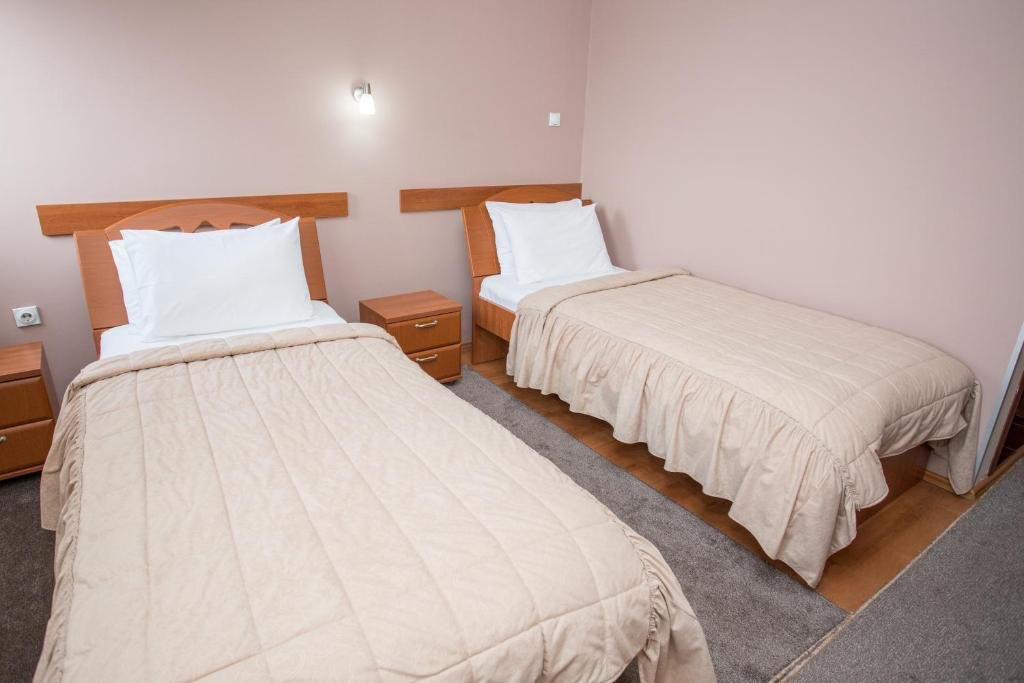
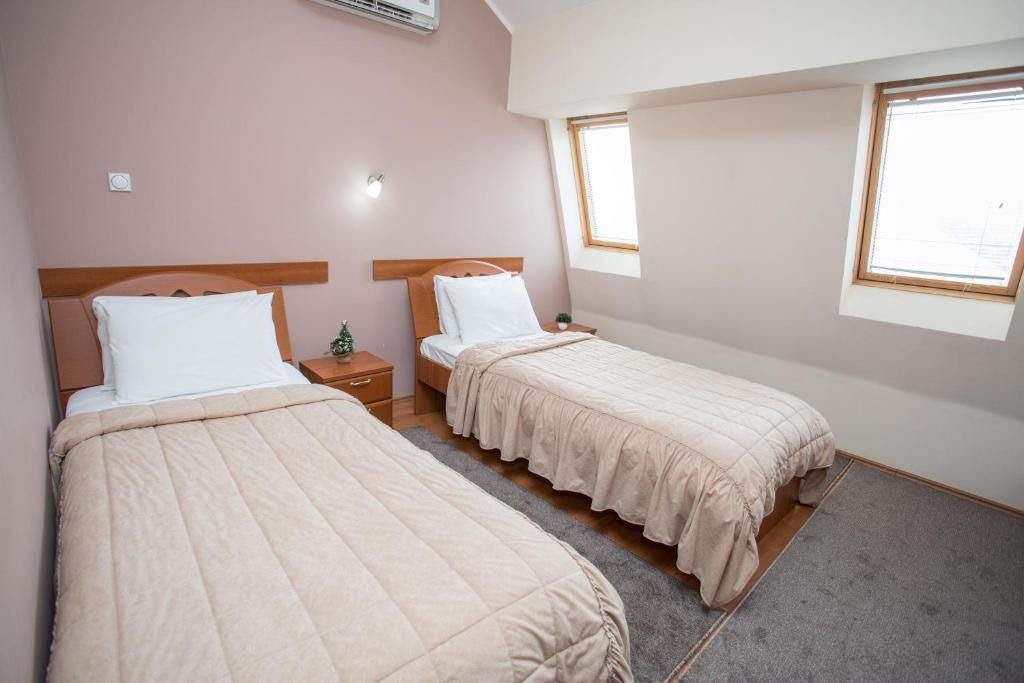
mods

diff --git a/app/(moduls)/reservation/page.tsx b/app/(moduls)/reservation/page.tsx
@@ -6,6 +6,8 @@ import "react-datepicker/dist/react-datepicker.css";
 import { useLanguage } from "@/app/_shared/Localization/LanguageContext";
 import RemoveCircleOutlineIcon from "@mui/icons-material/Delete";
 import AddCircleOutlineIcon from "@mui/icons-material/Add";
+import KeyboardArrowDownIcon from "@mui/icons-material/KeyboardArrowDown";
+import CalendarMonthIcon from "@mui/icons-material/CalendarMonth";
 import "../../style.css";
 import { useHotelData } from "@/app/_shared/Localization/useHotelData";
 import { sendReservationEmail } from "./actions";
@@ -175,6 +177,22 @@ export default function Reservation() {
           <div className="w-24 h-1 bg-[#fcd949]"></div>
         </div>
 
+        {/* Benefits and Phone Booking Section */}
+        <div className="flex flex-col items-center text-center w-full mb-12 gap-2">
+          <h2 className="text-2xl md:text-3xl font-bold text-[#fcd949] uppercase tracking-widest mb-2">
+            {t.bookingBenefits}
+          </h2>
+          <p className="text-white/80 text-base md:text-lg">{t.bookingBenefit1}</p>
+          <p className="text-white/80 text-base md:text-lg">{t.bookingBenefit2}</p>
+          
+          <h2 className="text-2xl md:text-3xl font-bold text-[#fcd949] uppercase tracking-widest mt-8 mb-2">
+            {t.phoneBooking}
+          </h2>
+          <a href="tel:[phone redacted]" className="text-white text-2xl md:text-3xl font-bold hover:text-[#fcd949] transition-colors duration-300">
+            [phone redacted]
+          </a>
+        </div>
+
         <form className="w-full flex flex-col gap-8" onSubmit={handleSubmit}>
           {/* Dynamic Rooms Selection */}
           <div className="flex flex-col gap-6">
@@ -211,58 +229,68 @@ export default function Reservation() {
                     <label className="text-white/80 text-sm font-semibold uppercase tracking-wider">
                       {t.roomType}
                     </label>
-                    <select
-                      value={room.roomId}
-                      onChange={(e) =>
-                        handleRoomChange(room.id, "roomId", e.target.value)
-                      }
-                      className="p-3 border rounded-lg bg-zinc-800 border-white/20 text-white focus:border-[#fcd949] focus:ring-1 focus:ring-[#fcd949] transition-colors duration-200 outline-none appearance-none"
-                    >
-                      {hotelRooms.map((r) => (
-                        <option key={r.id} value={r.id} className="bg-zinc-900 text-white">
-                          {r.name}
-                        </option>
-                      ))}
-                    </select>
+                    <div className="relative">
+                      <select
+                        value={room.roomId}
+                        onChange={(e) =>
+                          handleRoomChange(room.id, "roomId", e.target.value)
+                        }
+                        className="w-full p-3 pr-10 border rounded-lg bg-zinc-800 border-white/20 text-white focus:border-[#fcd949] focus:ring-1 focus:ring-[#fcd949] transition-colors duration-200 outline-none appearance-none cursor-pointer"
+                      >
+                        {hotelRooms.map((r) => (
+                          <option key={r.id} value={r.id} className="bg-zinc-900 text-white">
+                            {r.name}
+                          </option>
+                        ))}
+                      </select>
+                      <KeyboardArrowDownIcon className="absolute right-3 top-1/2 -translate-y-1/2 text-white/50 pointer-events-none" />
+                    </div>
                   </div>
 
                   <div className="flex flex-col gap-2">
                     <label className="text-white/80 text-sm font-semibold uppercase tracking-wider">
                       {t.numberOfPersons}
                     </label>
-                    <select
-                      value={room.persons}
-                      onChange={(e) =>
-                        handleRoomChange(room.id, "persons", e.target.value)
-                      }
-                      className="p-3 border rounded-lg bg-zinc-800 border-white/20 text-white focus:border-[#fcd949] focus:ring-1 focus:ring-[#fcd949] transition-colors duration-200 outline-none appearance-none"
-                    >
-                      <option value="1" className="bg-zinc-900 text-white">
-                        {t.onePerson}
-                      </option>
-                      <option value="2" className="bg-zinc-900 text-white">
-                        {t.twoPersons}
-                      </option>
-                    </select>
+                    <div className="relative">
+                      <select
+                        value={room.persons}
+                        onChange={(e) =>
+                          handleRoomChange(room.id, "persons", e.target.value)
+                        }
+                        className="w-full p-3 pr-10 border rounded-lg bg-zinc-800 border-white/20 text-white focus:border-[#fcd949] focus:ring-1 focus:ring-[#fcd949] transition-colors duration-200 outline-none appearance-none cursor-pointer"
+                      >
+                        <option value="1" className="bg-zinc-900 text-white">
+                          {t.onePerson}
+                        </option>
+                        <option value="2" className="bg-zinc-900 text-white">
+                          {t.twoPersons}
+                        </option>
+                      </select>
+                      <KeyboardArrowDownIcon className="absolute right-3 top-1/2 -translate-y-1/2 text-white/50 pointer-events-none" />
+                    </div>
                   </div>
 
                   <div className="flex flex-col gap-2">
                     <label className="text-white/80 text-sm font-semibold uppercase tracking-wider">
                       {t.selectPeriod}
                     </label>
-                    <DatePicker
-                      locale={language} // Postavlja jezik kalendara (npr. 'latn-rs')
-                      dateFormat="dd-MMMM-yyyy" // Format: 13-januar-2025
-                      selectsRange={true}
-                      startDate={room.dateRange[0] || undefined}
-                      endDate={room.dateRange[1] || undefined}
-                      onChange={(update) =>
-                        handleRoomChange(room.id, "dateRange", update)
-                      }
-                      isClearable={true}
-                      placeholderText={t.selectPeriodPlaceholder || "Od - Do"}
-                      className="w-full p-3 border rounded-lg bg-zinc-800 border-white/20 text-white placeholder-white/50 focus:border-[#fcd949] focus:ring-1 focus:ring-[#fcd949] transition-colors duration-200 outline-none"
-                    />
+                    <div className="relative">
+                      <CalendarMonthIcon className="absolute left-3 top-1/2 -translate-y-1/2 text-[#fcd949] text-xl z-10 pointer-events-none" />
+                      <DatePicker
+                        locale={language} // Postavlja jezik kalendara (npr. 'latn-rs')
+                        dateFormat="dd-MMMM-yyyy" // Format: 13-januar-2025
+                        selectsRange={true}
+                        startDate={room.dateRange[0] || undefined}
+                        endDate={room.dateRange[1] || undefined}
+                        onChange={(update) =>
+                          handleRoomChange(room.id, "dateRange", update)
+                        }
+                        isClearable={true}
+                        placeholderText={t.selectPeriodPlaceholder || "Od - Do"}
+                        className="w-full p-3 pl-11 border rounded-lg bg-zinc-800 border-white/20 text-white placeholder-white/50 focus:border-[#fcd949] focus:ring-1 focus:ring-[#fcd949] transition-colors duration-200 outline-none"
+                        wrapperClassName="w-full"
+                      />
+                    </div>
                   </div>
                 </div>
 

diff --git a/app/_shared/Localization/tranlsations.ts b/app/_shared/Localization/tranlsations.ts
@@ -95,6 +95,9 @@ export const translations = {
     perHour: "per hour",
     hotelGuests: "Hotel Guests",
     contactButton: "Contact Us",
+    restaurant: "Restaurant",
+    restaurantBreakfastInfo: "Guests staying at Hotel Sin-Kom can enjoy a highly-rated breakfast during their stay. Breakfast options include:",
+    restaurantBreakfastOption: "À la carte (ordering from the menu)",
     contactPageSubtitle: "Have a question or want to book a stay? Feel free to reach out to us.",
     messageLabel: "Message",
     messagePlaceholder: "How can we help you?",
@@ -166,6 +169,10 @@ export const translations = {
       "Zvonačka Banja is a well-known spa town near Pirot, famous for the therapeutic properties of its springs and the beautiful natural surroundings.",      
     selectPeriodPlaceholder: "Select your stay period",
       pricingList: "Pricing List",
+      bookingBenefits: "Benefits of direct booking",
+      bookingBenefit1: "- 10% discount for individual bookings",
+      bookingBenefit2: "- Early Check-In and/or Late Check-Out",
+      phoneBooking: "Phone Booking",
   
     },
   "latn-rs": {
@@ -262,6 +269,9 @@ export const translations = {
     perHour: "po satu",
     hotelGuests: "Gosti hotela",
     contactButton: "Kontaktirajte nas",
+    restaurant: "Restoran",
+    restaurantBreakfastInfo: "Gosti koji odsedaju u objektu Hotel Sin-Kom mogu da uživaju u visoko ocenjenom doručku tokom svog boravka. Opcije za doručak uključuju:",
+    restaurantBreakfastOption: "À la carte (naručivanje iz jelovnika)",
     contactPageSubtitle: "Imate pitanje ili želite da rezervišete smeštaj? Slobodno nas kontaktirajte.",
     messageLabel: "Poruka",
     messagePlaceholder: "Kako vam možemo pomoći?",
@@ -330,6 +340,10 @@ export const translations = {
     zvonackaBanjaDesc: "Zvončka Banja je poznato banjsko mesto u blizini Pirota, poznato po lekovitim svojstvima svojih izvora i prelepoj prirodi koja ga okružuje.",
     selectPeriodPlaceholder: "Izaberite period boravka",
     pricingList: "Cenovnik",
+    bookingBenefits: "Prednosti direktne rezervacije",
+    bookingBenefit1: "- Popust od 10% za individualne rezervacije",
+    bookingBenefit2: "- Rani Check-In i/ili kasniji Check-Out",
+    phoneBooking: "Rezervacija telefonom",
 
   },
   "bg-bg": {
@@ -426,6 +440,9 @@ export const translations = {
     perHour: "на час",
     hotelGuests: "Гости на хотела",
     contactButton: "Свържете се с нас",
+    restaurant: "Ресторант",
+    restaurantBreakfastInfo: "Гостите, отсядащи в Хотел Син-Ком, могат да се насладят на високо оценена закуска по време на престоя си. Вариантите за закуска включват:",
+    restaurantBreakfastOption: "À la carte (поръчка от меню)",
     contactPageSubtitle: "Имате въпрос или искате да резервирате престой? Чувствайте се свободни да се свържете с нас.",
     messageLabel: "Съобщение",
     messagePlaceholder: "Как можем да ви помогнем?",
@@ -494,6 +511,10 @@ export const translations = {
     zvonackaBanjaDesc: "Звонска баня е известен спа курорт в близост до Пирот, известен със своите лечебни свойства на минералните извори и красивата природа, която го заобикаля.",
     selectPeriodPlaceholder: "Изберете период на престой",  
     pricingList: "ценова листа",
+    bookingBenefits: "Преимущества прямого бронирования",
+    bookingBenefit1: "- 10% скидка за индивидуални бронирования",
+    bookingBenefit2: "- Ранен заезд и/или късен изход",
+    phoneBooking: "Брониране по телефон",
   },
 };
 

diff --git a/app/(moduls)/services/page.tsx b/app/(moduls)/services/page.tsx
@@ -93,6 +93,23 @@ export default function Serices() {
               prices={room.prices}
             />
           ))}
+
+          <div className="w-full mb-16 p-8 md:p-12 bg-white rounded-[2rem] shadow-xl border border-black/5 flex flex-col items-center gap-8 transition-all hover:shadow-2xl">
+            <h2 className="services-heading text-6xl md:text-7xl text-[#464545] text-center">
+              {t.restaurant}
+            </h2>
+            <div className="text-black/70 text-lg leading-relaxed max-w-4xl text-center mx-auto">
+              <p>{t.restaurantBreakfastInfo}</p>
+              <p className="mt-2 font-medium">- {t.restaurantBreakfastOption}</p>
+            </div>
+            <div className="relative w-full mt-4 overflow-hidden h-[200px] rounded-2xl">
+              <img 
+                src="/images/restoran-menu.jpg" 
+                alt="Hotel Sin-Kom Restoran" 
+                className="w-full h-full object-cover"
+              />
+            </div>
+          </div>
         </div>
       </main>
       <div className="bg-[#e0d9cd] w-full px-4 lg:px-[100px] pb-10">

diff --git a/app/(moduls)/surroundings/page.tsx b/app/(moduls)/surroundings/page.tsx
@@ -57,7 +57,7 @@ export default function Surroundings() {
       gallery: [
         { src: "/images/Sin-kom/zanimljivosti-u-gradu/tvrdjava-pirot.jpg", name: t.kaleName || "Tvrđava Kale", description: t.kaleDesc || "Srednjovekovni grad, ponos pirotske istorije." },
         { src: "/images/Sin-kom/zanimljivosti-u-gradu/muzej-pirot.JPG", name: t.muzejName || "Muzej Ponišavlja", description: t.muzejDesc || "Autentična arhitektura i bogata riznica." },
-        { src: "/images/Sin-kom/zanimljivosti-u-gradu/pirotski-kej-zalazak.jpg", name: t.kejName || "Pirotski Kej", description: t.kejDesc || "Najlepše šetalište pored reke Nišave." },
+        { src: "/images/Sin-kom/zanimljivosti-u-gradu/pirotski-kej.jpeg", name: t.kejName || "Pirotski Kej", description: t.kejDesc || "Najlepše šetalište pored reke Nišave." },
       ]
     },
     {
@@ -66,7 +66,7 @@ export default function Surroundings() {
       image: "/images/Sin-kom/jerma/kanjon-jerme.jpg",
       gallery: [
         { src: "/images/Sin-kom/jerma/manastir-poganovo.jpg", name: t.poganovoName || "Manastir Poganovo", description: t.poganovoDesc || "" },
-        { src: "/images/Sin-kom/jerma/manastir-sukovo.JPG", name: t.sukovoName || "Manastir Sukovo", description: t.sukovoDesc || "" },
+        { src: "/images/Sin-kom/jerma/manastir-sukovo.jpg", name: t.sukovoName || "Manastir Sukovo", description: t.sukovoDesc || "" },
         { src: "/images/Sin-kom/jerma/banja-zvonce.jpg", name: t.zvonackaBanjaName || "Zvonačka banja", description: t.zvonackaBanjaDesc || "" },
       ]
     }
@@ -76,6 +76,7 @@ export default function Surroundings() {
 
   const handleBack = () => {
     setSelectedLocation(null);
+    window.scrollTo({ top: 0, behavior: "smooth" });
   };
 
   return (
@@ -110,7 +111,10 @@ export default function Surroundings() {
             <div className="grid grid-cols-1 md:grid-cols-2 gap-8 w-full animate-fade-in-up">
               {locations.map((loc, index) => (
                 <button
-                  onClick={() => setSelectedLocation(index)}
+                  onClick={() => {
+                    setSelectedLocation(index);
+                    window.scrollTo({ top: 0, behavior: "smooth" });
+                  }}
                   key={index}
                   className="group relative block w-full aspect-[16/10] overflow-hidden border border-white/10 bg-white/5 backdrop-blur-md transition-all duration-500 hover:border-[#fcd949] rounded-none cursor-pointer"
                 >

diff --git a/app/_shared/Localization/rooms.ts b/app/_shared/Localization/rooms.ts
@@ -9,7 +9,6 @@ export const ROOMS = [
     images: [
       "/images/Sin-kom/classic-soba/picture1.JPG",
       "/images/Sin-kom/classic-soba/picture2.JPG",
-      "/images/Sin-kom/classic-soba/picture3.JPG",
     ],
     nameKey: "clasicRoom",
     descriptionKey: "clasicRoomDescription",

diff --git a/app/_shared/Localization/useHotelData.ts b/app/_shared/Localization/useHotelData.ts
@@ -32,7 +32,6 @@ export const useHotelData = (): HotelData => {
           images: [
             "/images/Sin-kom/classic-soba/picture1.JPG",
             "/images/Sin-kom/classic-soba/picture2.JPG",
-            "/images/Sin-kom/classic-soba/picture3.JPG",
           ],
         },
         {